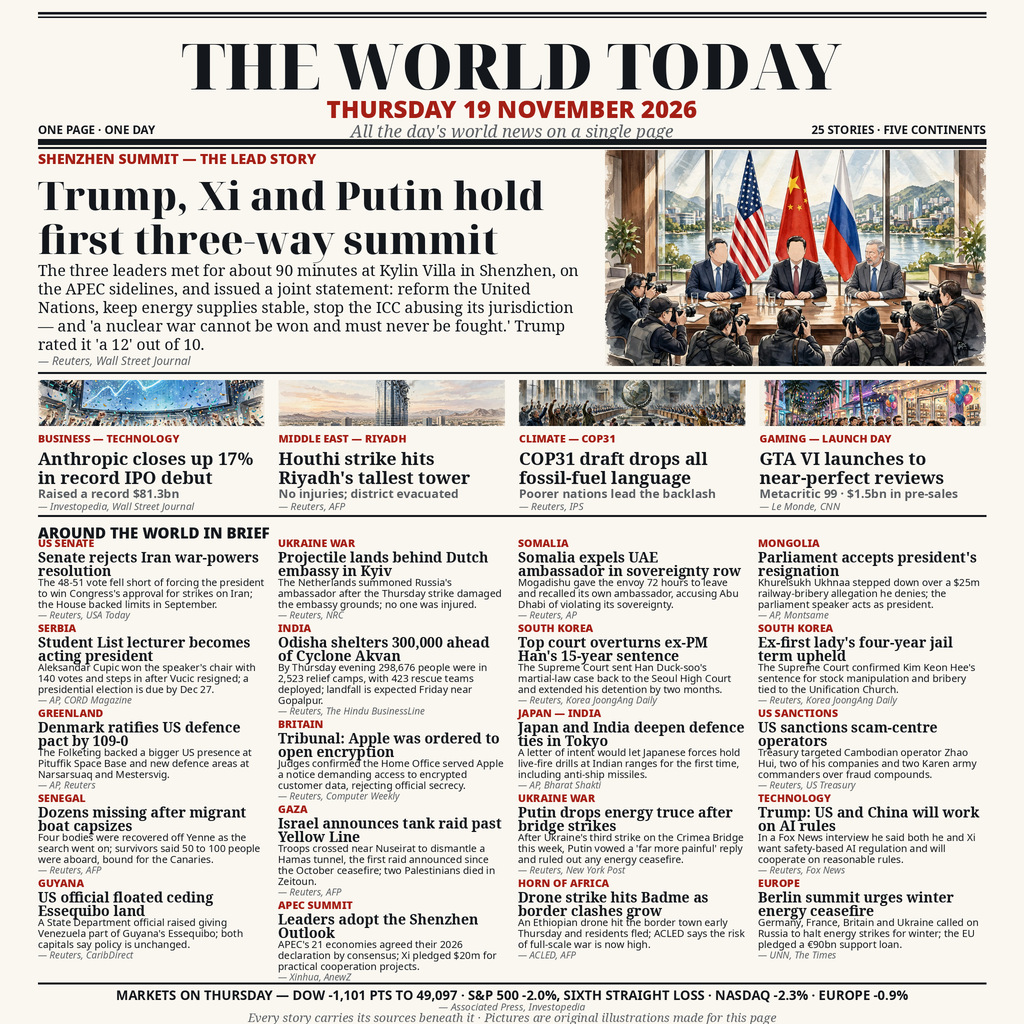
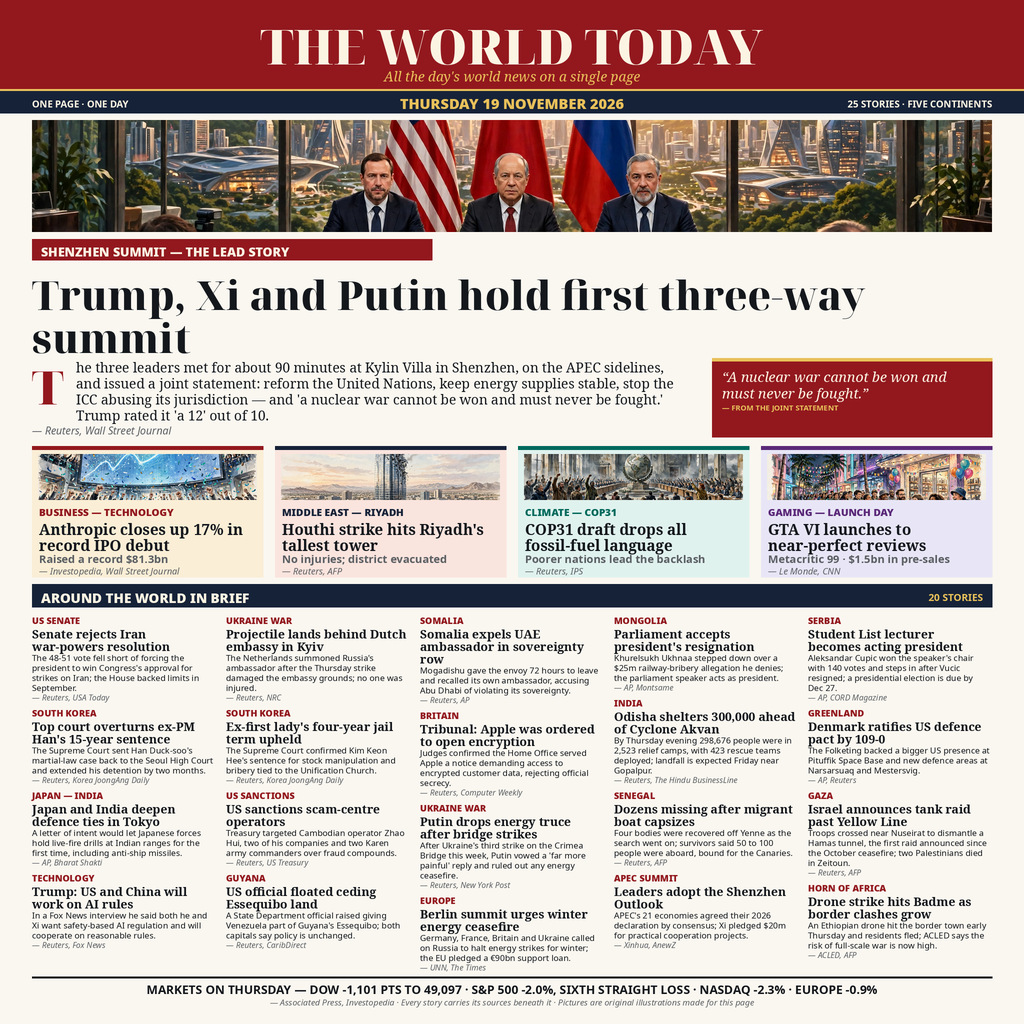
v2: colour magazine redesign of the front page
Crimson nameplate band with the title reversed out in cream, navy
date strip with gold date, oversized colour Shenzhen summit hero
across the top width, crimson kicker bar and pull-quote panel for
the lead, tinted story cards, navy briefs banner. Same 25 verified
stories and texts as v1; new summit illustration; entry.png is now
514,332 bytes, sha256-verified in main.py.

diff --git a/main.py b/main.py
@@ -1,8 +1,19 @@
 #!/usr/bin/env python3
 """Entry program for the make.fun bounty news-image-20261119.
 
-The finished front page is committed in this repository as entry.png.
-The file holds JPEG bytes under a .png name; the bounty tells PNG from
+Second design of the front page, revised at the entrant's order for a
+colour magazine look ("atas kayak majalah" — the top like a magazine):
+a colour magazine treatment of the same 25 verified stories of
+Thursday 19 November 2026 — a deep-crimson nameplate band with the
+title reversed out in cream, a navy date strip with the date in gold,
+an oversized colour illustration of the Shenzhen summit spanning the
+top width under the masthead, a crimson kicker bar and pull-quote
+panel for the lead story, tinted story cards and a navy briefs
+banner. The first design was a plain black-and-white newspaper page;
+the stories, texts and sourcing did not change between designs.
+
+The finished page is committed in this repository as entry.png. The
+file holds JPEG bytes under a .png name; the bounty tells PNG from
 JPEG by the first bytes, so this is exactly what its rules allow.
 Running this program delivers that page, byte for byte, to the output
 location the grader uses: $MAKEFUN_OUTPUT_DIR/entry.png when the
@@ -22,8 +33,8 @@ from pathlib import Path
 
 REPO_DIR = Path(__file__).resolve().parent
 PAGE_FILE = REPO_DIR / "entry.png"
[1 lines of base64/hex data omitted]
-PAGE_BYTES = 567425
[1 lines of base64/hex data omitted]
+PAGE_BYTES = 514332
 
 
 def output_path() -> Path:

diff --git a/README.md b/README.md
@@ -34,6 +34,11 @@ market moves in the footer.
   programmatically (PIL) at 2048×2048 and downscaled with a Lanczos resample
   to the final 1024×1024, saved as JPEG quality 93 with 4:4:4 chroma, then
   proofread letter by letter at full zoom.
+- The second design gives the page a colour magazine treatment: a
+  deep-crimson nameplate band with the title reversed out in cream, a navy
+  date strip with the date in gold, an oversized colour summit illustration
+  spanning the top width, a crimson pull-quote panel beside the lead deck,
+  tinted story cards and a navy briefs banner. Same stories, same texts.
 - `main.py` (Python 3, standard library only) verifies the committed
   image's size and sha256, then copies it to `$MAKEFUN_OUTPUT_DIR/entry.png`
   (or `/output/entry.png`). It is deterministic: repeated runs produce
@@ -41,7 +46,7 @@ market moves in the footer.
 
 ## Files
 
-- `entry.png` — the finished image (JPEG-encoded, 1024×1024, 567,425 bytes,
+- `entry.png` — the finished image (JPEG-encoded, 1024×1024, 514,332 bytes,
   under the 1 MiB limit; the rules accept PNG or JPEG by magic bytes).
 - `main.py` — the entry program.
 - `SOURCES.md` — story-by-story sourcing and fact sheet.
